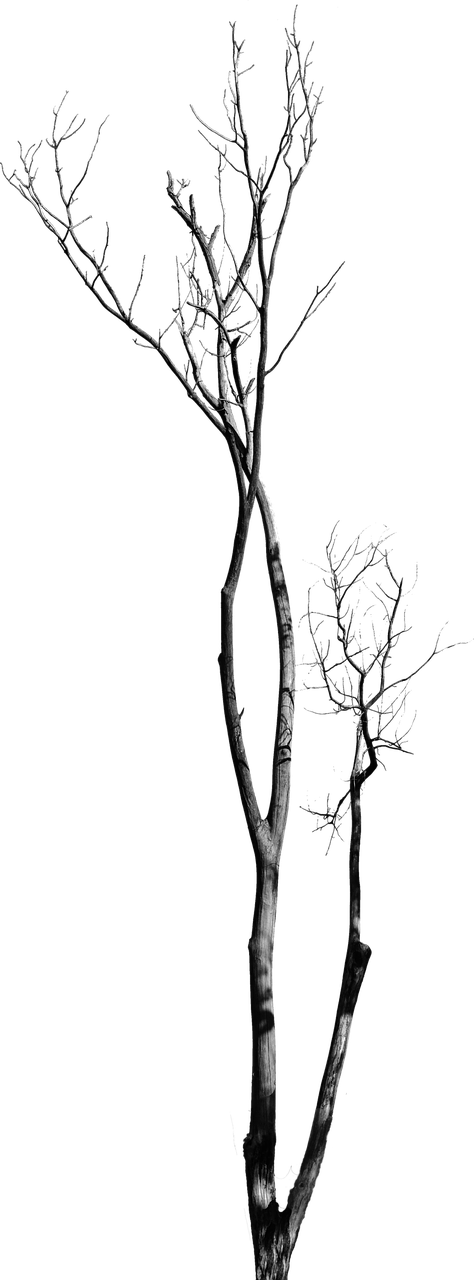
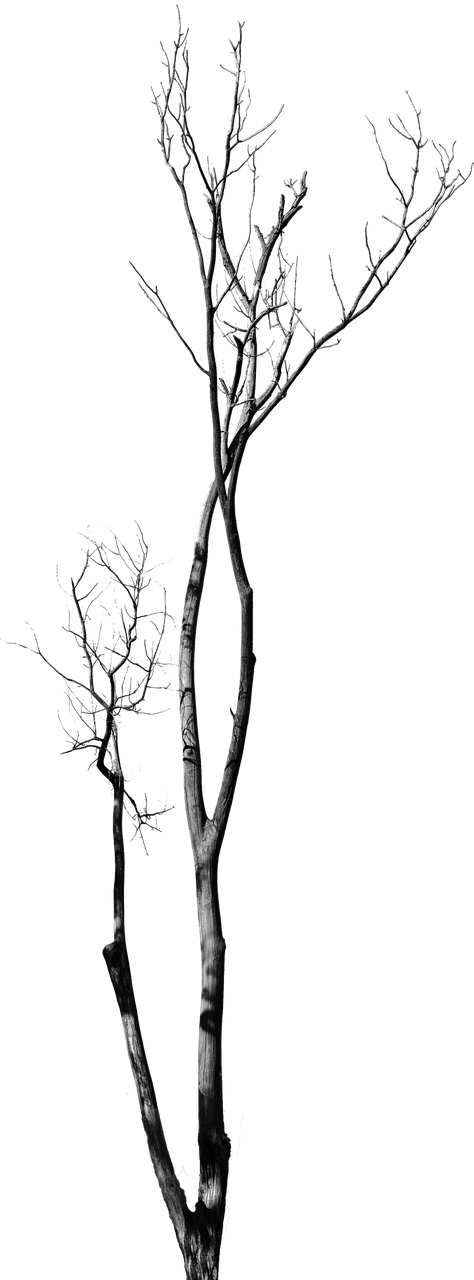
FIXED!

Changed region(s): [[0.0, 0.0, 1.0, 1.0]]

diff --git a/Assignment3/style/style.css b/Assignment3/style/style.css
@@ -4,7 +4,7 @@
 }
 
 h1 {
- 
+
     margin: 0 auto;
     -webkit-text-fill-color: #000000;
     /* text-shadow: 2px 2px 5px rgb(255, 255, 255);*/
@@ -13,7 +13,7 @@ h1 {
     width: 70%;
     border-radius: 50px;
     background-color: #cb6437;
-    
+
 }
 
 
@@ -31,17 +31,36 @@ h3 {
 }
 
 body {
-      background-image: url("../assets/images/tree.png"); /* Replace "your-image.jpg" with the path to your image */
-     
-      background-attachment: fixed;
-      background-position: 105%; /* Optional: center the image */
-      background-size: 350px; /* Optional: cover the entire background */
-      background-repeat: no-repeat; /* Optional: prevent the image from repeating */
-      background-color: #cb6437;
-      
-    }
-    
-   div {
+    background-image: url("../assets/images/tree.png"),url("../assets/images/tree-2.png");
+    /* Replace "your-image.jpg" with the path to your image */
+
+   
+    background-attachment: fixed;
+    background-position: 0%, 100%;
+    /* The first value is the position of the first image, the second value is the position of the second image */
+    background-size: 350px, 350px;
+    /* The second value is for the second image */
+    background-repeat: no-repeat, no-repeat;
+    /* The second value is for the second image */
+    background-color: #cb6437;
+
+}
+
+.tree-tree {
+    width: 40%;
+    max-height: 30px;
+    max-width: 30px;
+}
+
+.tree-2 {
+    width: 1%;
+    max-height: 1px;
+    max-width: 1px;
+    -webkit-transform: scaleX(-30);
+    transform: scaleX(-1);
+}
+
+div {
     border: 4px solid #D88A68;
     border-radius: 60px;
     max-width: 60%;
@@ -57,46 +76,44 @@ body {
     margin-top: 20px;
     font-family: Tahoma, sans-serif;
     background-color: #eca383;
- 
+
 }
 
 .video-center {
-  
-  position: center;
- 
+
+    position: center;
+    background-color: #cb6437; 
+    border-radius: 90px;
+   border: 3px solid #cb6437; /* I hid this with a color lol */
+     border-radius: 10px;
+    
+
+
 }
+
 .owl-row {
-  display: flex;
-  justify-content: center;
-  align-items: center;
-  gap: 20px;
+    display: flex;
+    justify-content: center;
+    align-items: center;
+    gap: 20px;
+    border: 3px solid #000000;
+    padding: 10px;
 }
 
 
 
 header {
 
-   border: 4px solid #D88A68;
+    border: 4px solid #D88A68;
     border-radius: 50px;
     max-width: 50%;
     margin: 0 auto;
     background-color: #D88A68;
     text-align: center;
+
 }
 
-.tree-tree {
-    width: 40%;
-    max-height: 30px;
-    max-width: 30px;
-}
 
-.tree-2 {
-    width: 40%;
-    max-height: 30px;
-    max-width: 30px;
-    -webkit-transform: scaleX(-1);
-    transform: scaleX(-1);
-}
 
 p {
     max-width: 30%;
@@ -185,7 +202,7 @@ ul {
     display: outside;
     margin: 20px auto;
     border-radius: 70px;
-    
+
 }
 
 .eggy-egg {
@@ -195,7 +212,7 @@ ul {
     display: outside;
     margin: 20px auto;
     border-radius: 70px;
-    
+
 
 }
 
@@ -203,17 +220,18 @@ ul {
     width: 8%;
     max-width: 5px;
     height: 10px;
-    
-   
+
+
 }
+
 /*FIX THESE TWO CLASSES!*/
 
 .canva-2 {
     width: 8%;
     max-width: 5px;
-    height:  10px;
-   
-   
+    height: 10px;
+
+
 }
 
 .funny-smallowl {
@@ -236,13 +254,11 @@ ul {
 }
 
 
-.canva-betweeentrees {
-    width: 80%;
-    max-width: 500px;
+.owl-shipped {
+    width: 100%;
+    max-width: 400px;
     height: auto;
-    display: outside;
-    margin: 90px auto;
-    border-radius: 100px;
+    justify-content: center;
 }
 
 
@@ -326,63 +342,64 @@ button {
 table {
     border-collapse: collapse;
     /* removes gaps between cells */
-    
+
     /* === ADDED FOR CENTERING === */
     /* 1. Give the table a width less than 100% so it can be centered */
-    width: 80%; 
-    
+    width: 80%;
+
     /* 2. Set the display property if the table is behaving inline (optional, but good practice) */
-    display: block; 
-    
+    display: block;
+
     /* 3. Use margin: 0 auto; to center the block-level element */
-    margin: 20px auto; 
+    margin: 20px auto;
     /* The 20px adds vertical space, and 'auto' centers it horizontally */
-    
+
     /* REMOVED: justify-content: center; - This only works on flex containers, not on the table itself. */
 }
 
-        /* Targets all table cells (header and data) */
-        th,
-        td {
-            /* REDUCED PADDING: Makes the table smaller overall. 
+/* Targets all table cells (header and data) */
+th,
+td {
+    /* REDUCED PADDING: Makes the table smaller overall. 
             4px vertical, 6px horizontal.
             */
-            padding: 4px 6px; 
-            border: 2px solid #000000;
-            
-            /* CENTERED CONTENT: Added to match your original inline style.
+    padding: 4px 6px;
+    border: 2px solid #000000;
+
+    /* CENTERED CONTENT: Added to match your original inline style.
             */
-            text-align: center; 
-            font-size: 12px;
-        }
+    text-align: center;
+    font-size: 12px;
+}
 
-        th {
-            background-color: #f5f5f5;
-            font-weight: bold;
-            color: #ffffff;
-        }
+th {
+    background-color: #f5f5f5;
+    font-weight: bold;
+    color: #ffffff;
+}
 
-        /* TARGETS IMAGES INSIDE TABLE CELLS: 
+/* TARGETS IMAGES INSIDE TABLE CELLS: 
         This is where we control the image size and remove padding. 
         */
-        td img {
-            /* SET IMAGE WIDTH: Replaces your old inline style of width: 50%.
+td img {
+    /* SET IMAGE WIDTH: Replaces your old inline style of width: 50%.
             This keeps your image size relative to the cell.
             */
-            width: 80%; 
-            
-            /* REMOVES LEFT/RIGHT PADDING: This is what makes the image's edges touch 
+    width: 80%;
+
+    /* REMOVES LEFT/RIGHT PADDING: This is what makes the image's edges touch 
             the cell boundaries more closely.
             */
-            padding-left: 0;
-            padding-right: 0;
-            
-            /* OPTIONAL: Helps remove tiny gaps that images sometimes create 
+    padding-left: 0;
+    padding-right: 0;
+
+    /* OPTIONAL: Helps remove tiny gaps that images sometimes create 
             when treated as inline elements.
             */
-            display: block; 
-            margin: 0 auto; /* Centers the block-level image within the cell */
-        }
+    display: block;
+    margin: 0 auto;
+    /* Centers the block-level image within the cell */
+}
 
 button:hover {
     background-color: #7a564f;

diff --git a/Assignment3/index.html b/Assignment3/index.html
@@ -20,34 +20,28 @@
 
 </header>
 <br>
-
-
-
-
-
-
-
-<body>
 <div class="video-center">
 
-  
-<video controls autoplay muted loop style="width: 60%; height: auto;">
+<video controls autoplay muted loop style ="width: 100%; height: auto;">
   <source src="assets/images/1.mp4" type="video/mp4">
 </video>
 
-
 </div>
+<body>
+
   <br></br>
 <div class="owl-row">
   <img src="assets/images/Canva2.png" alt="left owl">
-  <h1>Legend of the Guardians: The Owls of Ga'hoole</h1>
+  <h1>Legend of the Guardians: The Owls of Ga'hoole<br><br>Directed by Zach Snyder<br></br></h1>
   <img src="assets/images/Canva1.png" alt="right owl">
+  
+  
 </div>
 
 
   <br></br>
-  <div class="chapter">
-    <h1>Directed by Zach Snyder</h1>
+  
+    
     <h2><cite>This action packed movie is about young owls that get taken from their home and forced to fight in a war
         that they didn't ask to be apart of.</cite></h2>
 
@@ -104,7 +98,7 @@
   </div>
 
   <br></br>
-  <div class="owl-3">
+  <div class="owl-row">
   <img src="assets/images/klaudd-looks.png" alt="klaud_looks" class="klaudd-looks">
   <img src="assets/images/eggy-egg.png" alt="eggy_egg" class="eggy-egg">
   <img src="assets/images/funny-smallowl.png " alt="funny_smallowl" class="funny-smallowl">

diff --git a/Assignment3/test page.html b/Assignment3/test page.html
@@ -17,19 +17,20 @@
     </ul>
   </div>
 </nav>
-
+<br></br>
+<div class="video-center">
 <h1> Order has been shipped!</h1>
+</div>
 
 <body>
 
 
-  <div class="tree-container">
+<div class="video-center">
+    
+    <img src="assets/images/Order_Shipped_Owl.png" alt="Flying owl" class="owl-shipped">
+    
 
-    <img class="tree-tree" src="assets/images/tree.png" alt="aspen tree">
-    <img src="assets/images/Order_Shipped_Owl.png" alt="Flying owl" class="canva-betweentrees">
-    <img class="tree-2" src="assets/images/tree-2.png" alt="aspen treee">
-
-  </div>
+</div>
 
   <!--copyright-->
   <footer>
